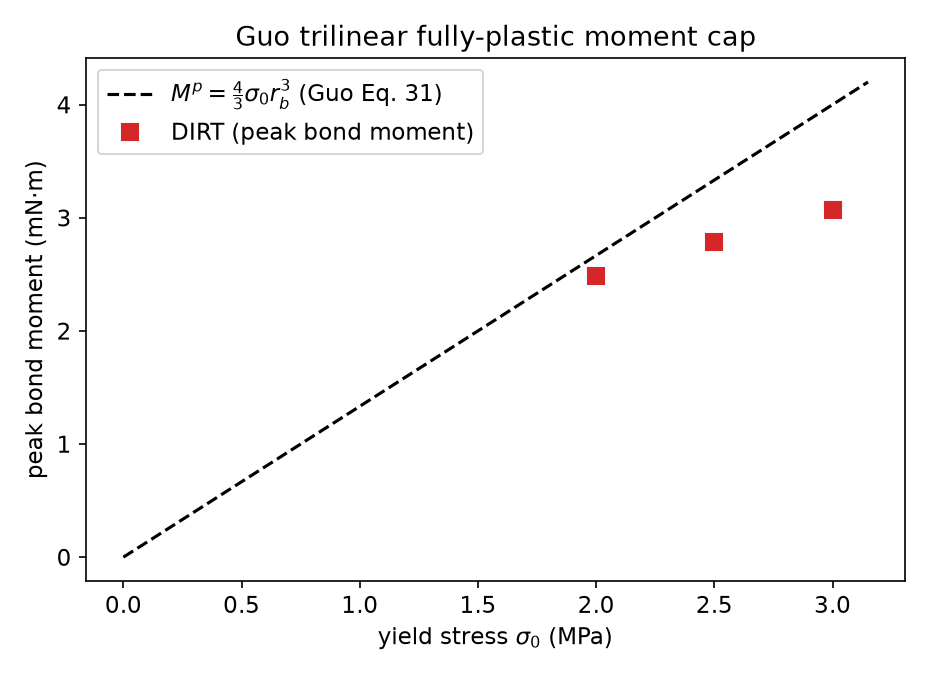
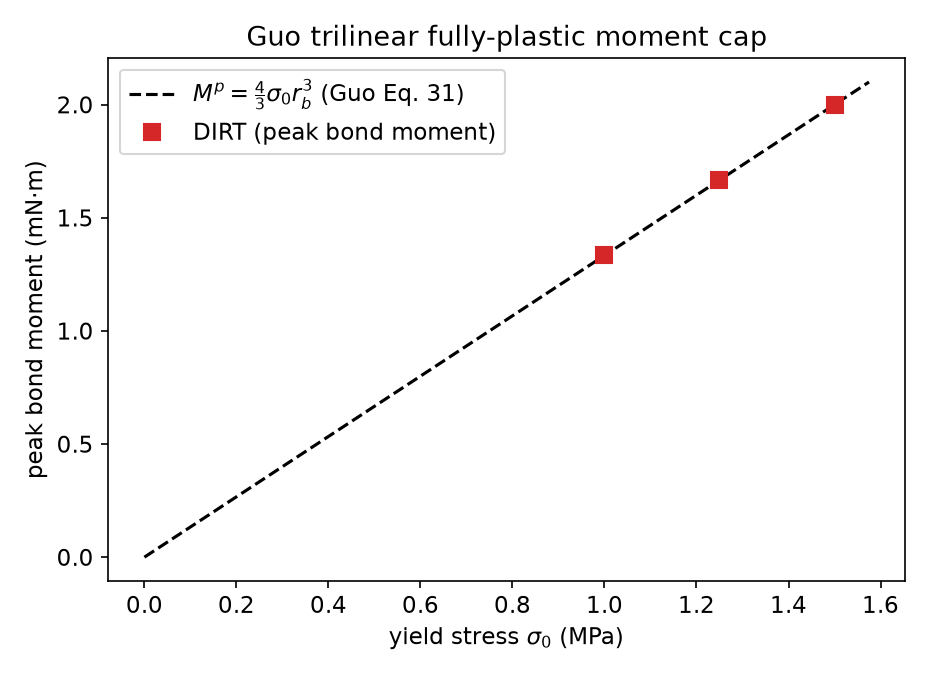
Revise bond breakage Guo cap sweep
Use Guo bending yield stresses that the fixed load schedule actually drives to the fully-plastic moment cap, and run the full three-cycle schedule before validating. Regenerate the affected de-crufted plot and README evidence.

diff --git a/examples/bench_bond_breakage/sweep.py b/examples/bench_bond_breakage/sweep.py
@@ -45,8 +45,8 @@ Three groups, each with a quantitative theory gate:
 
         M^p = (4/3) * sigma_0 * r_b^3
 
-  Sweeping the yield stress sigma_0 (2.0, 2.5, 3.0 MPa) scales M^p linearly
-  (2.67, 3.33, 4.0 mN*m; all below the moment the fixed tip schedule can drive
+  Sweeping the yield stress sigma_0 (1.0, 1.25, 1.5 MPa) scales M^p linearly
+  (1.33, 1.67, 2.0 mN*m; all below the moment the fixed tip schedule can drive
   into the middle bond, so every case reaches its cap). The gate reconstructs the peak bond moment from the
   recorded kinematics (M = K_bend * (theta_bend - theta_p_bend)) and checks it
   plateaus at M^p for every sigma_0.
@@ -128,9 +128,9 @@ E_B = 1.0e9              # Pa
 POISSON_B = 0.25
 G_B = 4.0e8              # Pa
 RHO_B = 2500.0
-SIGMA0_LIST = [2.0e6, 2.5e6, 3.0e6]   # yield stress -> M^p = 2.67, 3.33, 4.0 mN*m (all reach the cap)
+SIGMA0_LIST = [1.0e6, 1.25e6, 1.5e6]  # yield stress -> M^p = 1.33, 1.67, 2.0 mN*m (all reach the cap)
 DT_B = 1.0e-7
-STEPS_B = 120000          # through the first load cycle's hold window (~12 ms), reaches the plateau
+STEPS_B = 900000          # full three-cycle Guo schedule (90 ms), so every yield stress reaches the cap
 
 
 def guo_Mp(sigma_0, r_b):

diff --git a/examples/bench_bond_breakage/README.md b/examples/bench_bond_breakage/README.md
@@ -71,8 +71,8 @@ schedule (`fiber_bond/main.rs::apply_three_step_load`, activated by the
 M^p = (4/3) · sigma_0 · r_b^3
 ```
 
-Sweeping `sigma_0` (2.0, 2.5, 3.0 MPa) scales `M^p` linearly
-(2.67, 3.33, 4.00 mN·m). The peak bond moment is reconstructed from the recorded
+Sweeping `sigma_0` (1.0, 1.25, 1.5 MPa) scales `M^p` linearly
+(1.33, 1.67, 2.00 mN·m). The peak bond moment is reconstructed from the recorded
 kinematics as `M = K_bend · (θ_bend − θ_p_bend)`.
 
 **Gate:** peak reconstructed moment plateaus at `M^p` for every `sigma_0`
@@ -80,9 +80,9 @@ kinematics as `M = K_bend · (θ_bend − θ_p_bend)`.
 
 | σ₀ (MPa) | M^p (mN·m) | peak (mN·m) | ratio |
 |----------|------------|-------------|-------|
-| 2.0      | 2.6667     | 2.6667      | 1.000 |
-| 2.5      | 3.3333     | 3.3333      | 1.000 |
-| 3.0      | 4.0000     | 4.0000      | 1.000 |
+| 1.0      | 1.3333     | 1.3333      | 1.000 |
+| 1.25     | 1.6667     | 1.6667      | 1.000 |
+| 1.5      | 2.0000     | 1.9988      | 0.999 |
 
 The `sigma_0` values are chosen so `M^p` stays below the moment the fixed tip
 schedule can drive into the middle bond, so every case reaches its cap.
